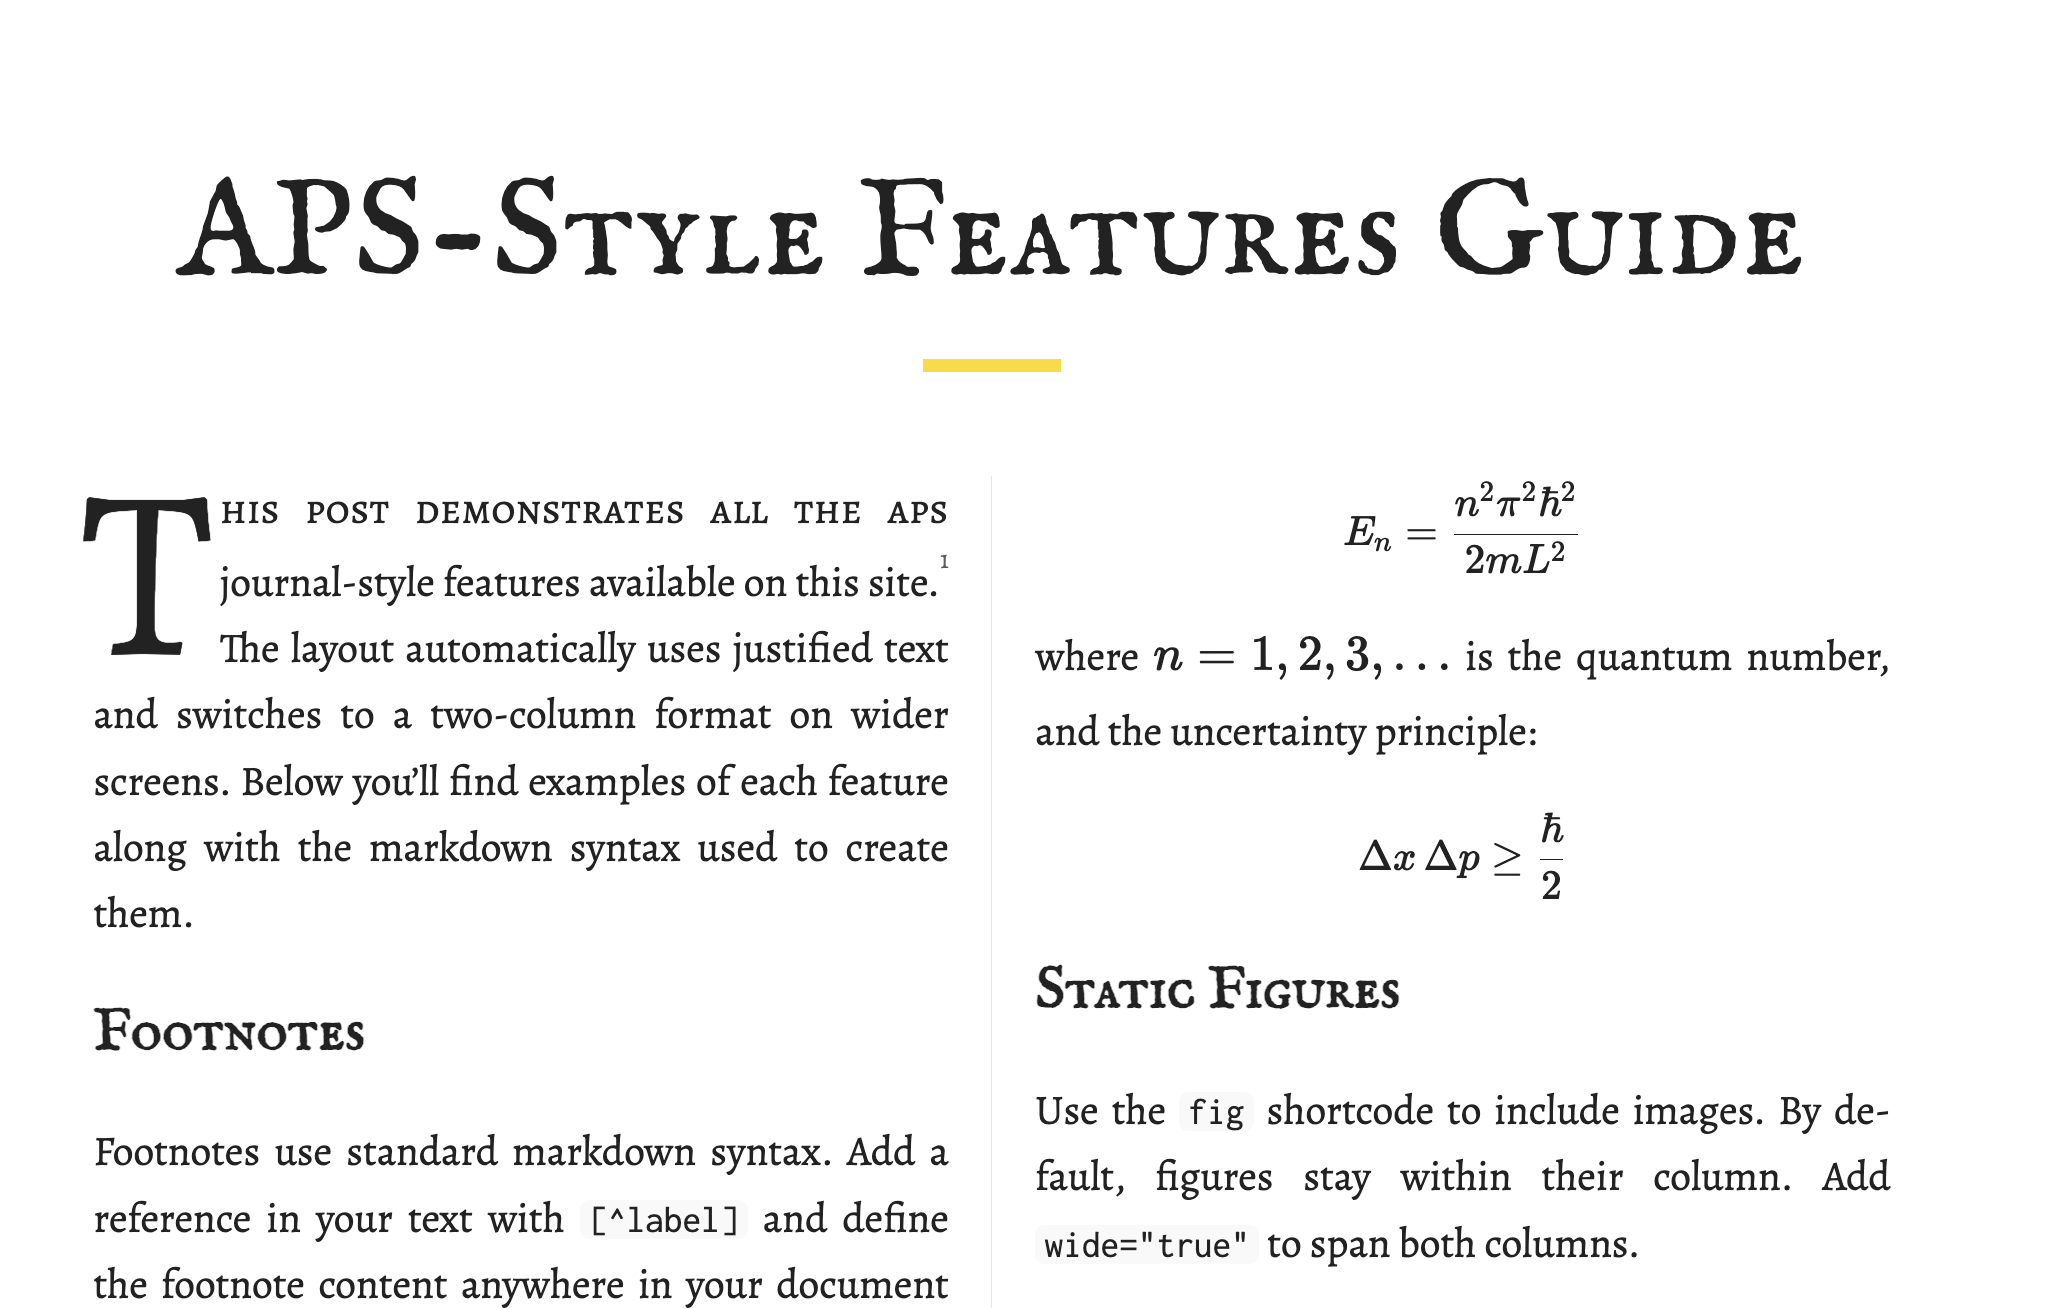
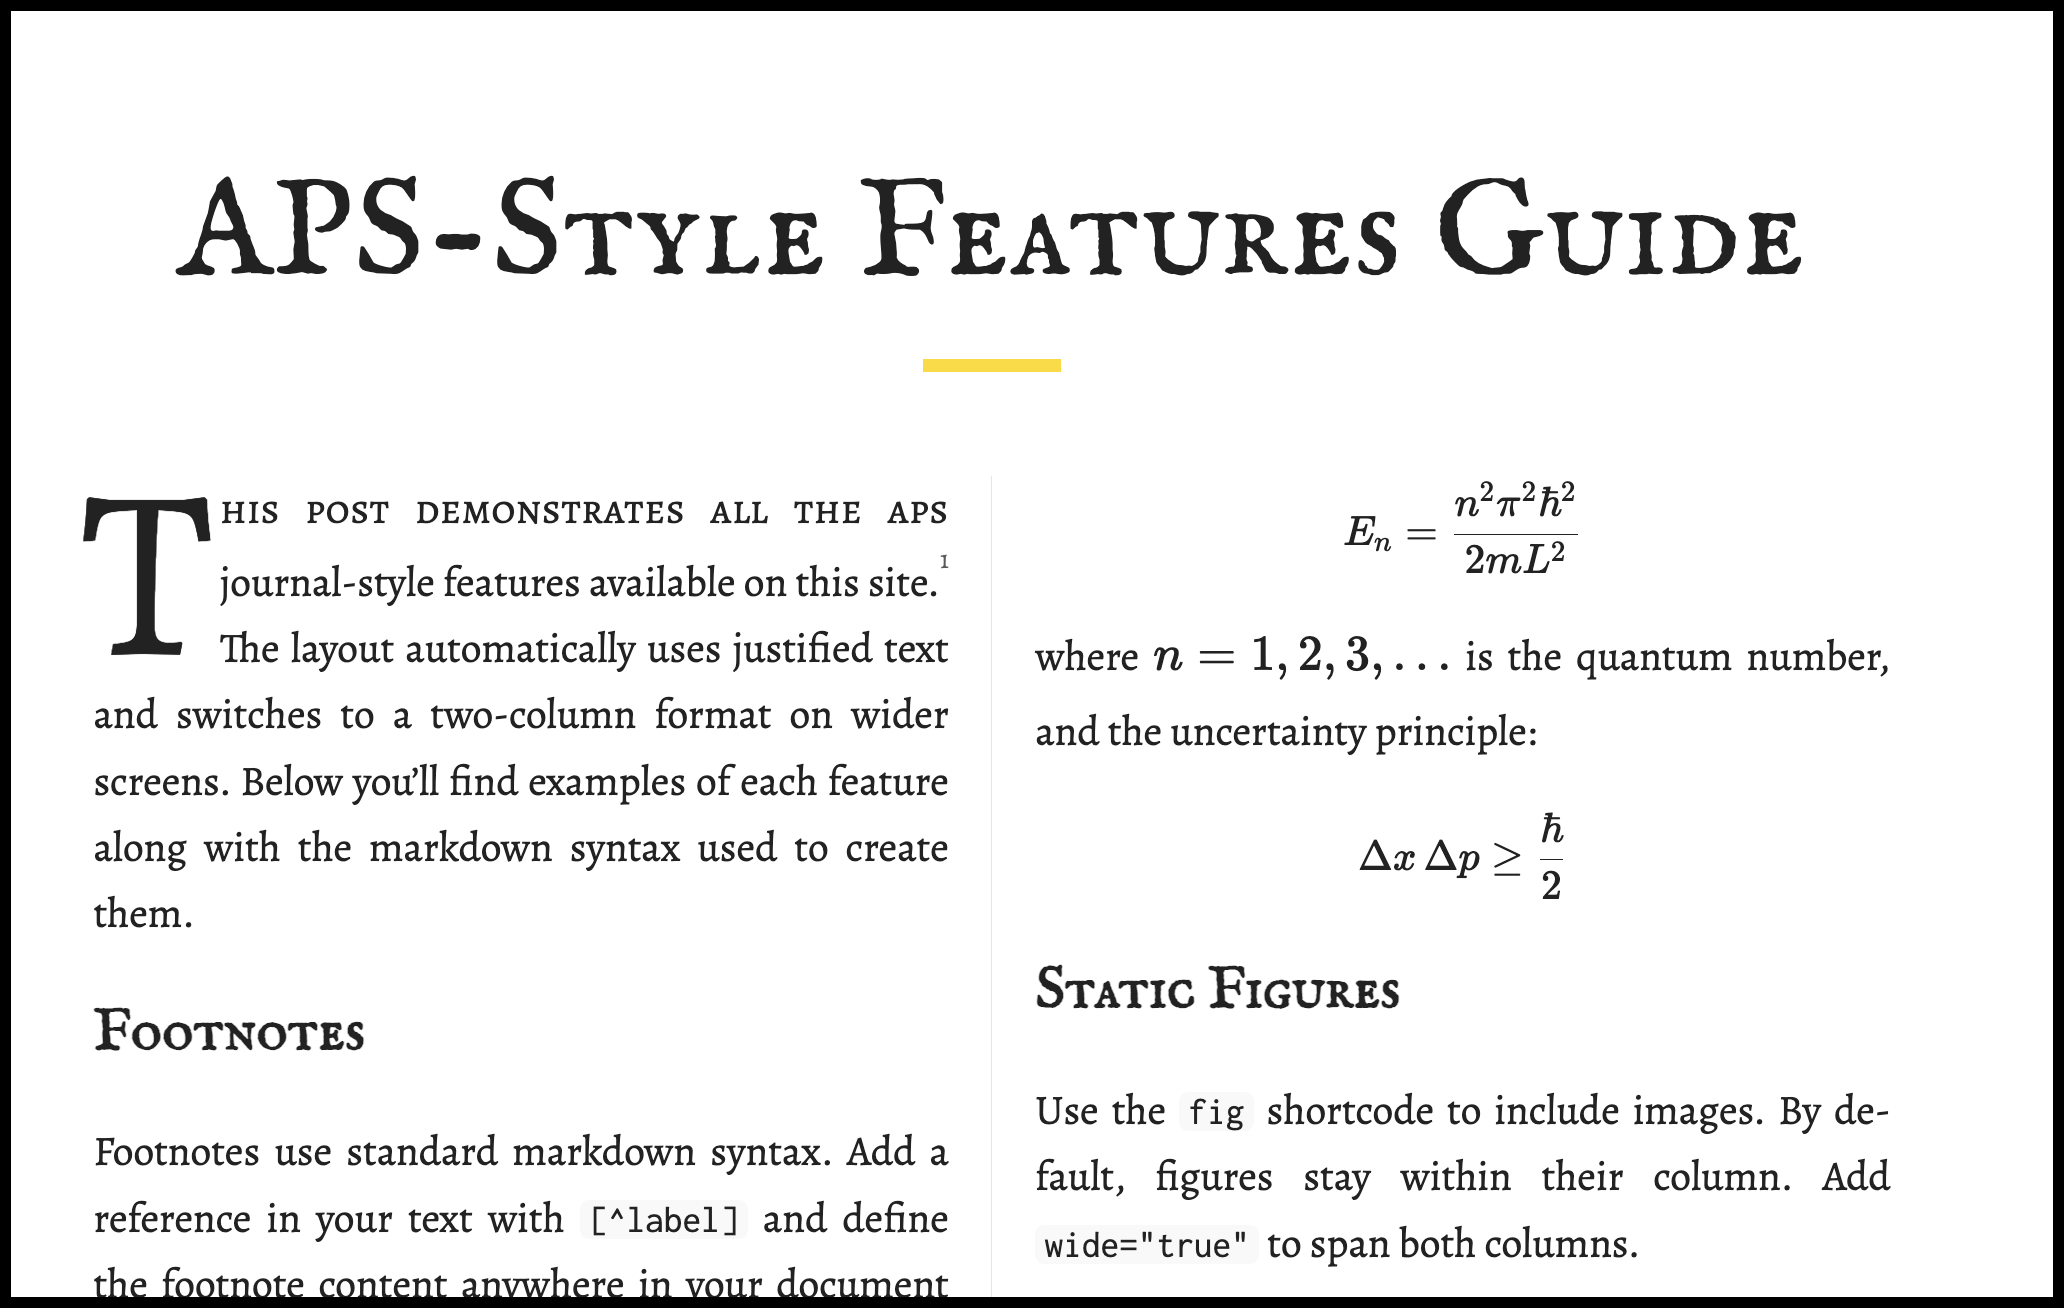
added a border to the screenshot

Changed region(s): [[0.0, 0.0, 1.0, 1.0]]

diff --git a/README.md b/README.md
@@ -10,8 +10,8 @@
 <div align="center">
   <h1>APS Journal Theme</h1>
   <img src="static/images/screenshot.png" alt="Screenshot" style="border: 5px solid #000000;">
-  <p>
-    A Hugo theme for academic and journal-style publishing, inspired by American Physical Society formatting.
+  <p><i>
+    A Hugo theme for academic and journal-style publishing, inspired by American Physical Society formatting.</i>
     <br />
     <br />
     <a href="https://github.com/PersephoneKarnstein/Hugo-APS-Journal/issues/new?labels=bug">Report Bug</a>
